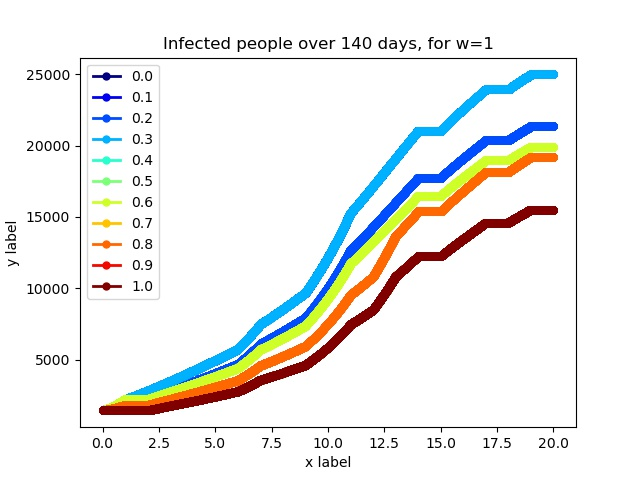
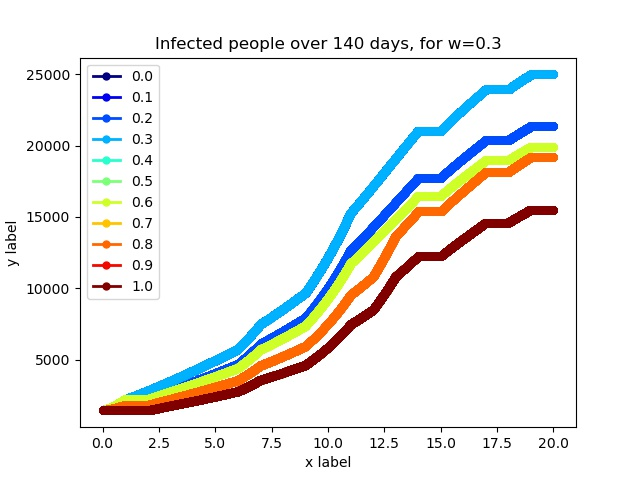
BugFix: titles

Changed region(s): [[0.25, 0.0625, 0.7812, 0.125]]

diff --git a/eval.py b/eval.py
@@ -264,7 +264,7 @@ def plot_infected_weight(path, to_load_sub_dir, savefig_filename=None, weight = 
     # # print("done")
     # axes.set_ylabel('Infected', fontsize=15)
     # fig.suptitle('Infected people over 140 days, for w=' + str(int(np.ceil(weight))) ) # or plt.suptitle('Main title')
-    ax = df.plot(x = 'index', lw=2, colormap='jet', marker='.', markersize=10, title='Infected people over 140 days, for w=' + str(int(np.ceil(weight))) )
+    ax = df.plot(x = 'index', lw=2, colormap='jet', marker='.', markersize=10, title='Infected people over 140 days, for w=' + str(weight))
     ax.set_xlabel("x label")
     ax.set_ylabel("y label")
 
